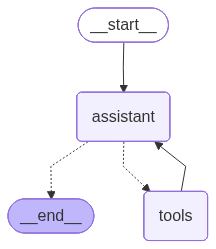
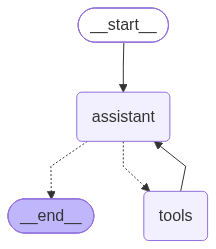
pinned version mcp-server-git

diff --git a/src/langgraph_mcp/03_mcp_stdio_external_package.py b/src/langgraph_mcp/03_mcp_stdio_external_package.py
@@ -148,7 +148,9 @@ async def setup_langgraph_app():
         "git": {
             "command": "uvx",
             "args": [
-                "mcp-server-git"
+                "--with", "mcp<2",  # mcp-server-git uses the v1 decorator API
+                "mcp-server-git",
+                "--repository", str(current_dir.parent.parent),
             ],
             "transport": "stdio"
         },
